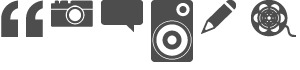
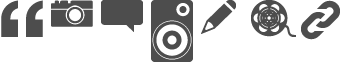
much tumblring, bug catching & stuff like that

diff --git a/assets/c/style.css b/assets/c/style.css
@@ -1,1 +1,1 @@
-/*! started with normalize.css 2012-03-11T12:53 UTC - http://github.com/necolas/normalize.css */article,aside,details,figcaption,figure,footer,header,hgroup,nav,section,summary{display:block}audio,canvas,video{display:inline-block;*display:inline;*zoom:1}audio:not([controls]){display:none;height:0}[hidden]{display:none}html{font-size:87.5%;-webkit-text-size-adjust:100%;-ms-text-size-adjust:100%;color:#4d4d4d;background:#eee url(http://static.tumblr.com/4g4xfxh/eICm65wjk/background.png)}html,button,input,select,textarea{font-family:'Helvetica Neue',Helvetica,Arial,sans-serif}body{margin:0;font-size:1em;line-height:1.4285714285714286}a:link,a:visited{color:#4d4d4d;background-color:transparent;text-decoration:underline}a:focus,a:hover,a:active{background-color:rgba(0,0,0,0.2);color:#4d4d4d;text-decoration:none;outline:thin dotted}a:hover,a:active{outline:0}h1,.h1{font-size:2em;margin:.67em 0}h2,.h2{font-size:1.5em;margin:.83em 0}h3,.h3{font-size:1.17em;margin:1em 0}h4,.h4{font-size:1em;margin:1.33em 0}h5,.h5{font-size:.83em;margin:1.67em 0}h6,.h6{font-size:.75em;margin:2.33em 0}abbr[title]{border-bottom:1px dotted}b,strong{font-weight:bold}blockquote{margin:1em 40px}dfn{font-style:italic}mark{background:#ff0;color:#000}p,pre{margin:1em 0}pre,code,kbd,samp{font-family:monospace,serif;_font-family:'courier new',monospace;font-size:1em}pre{white-space:pre;white-space:pre-wrap;word-wrap:break-word}q{quotes:none}q:before,q:after{content:'';content:none}small{font-size:75%}sub,sup{font-size:75%;line-height:0;position:relative;vertical-align:baseline}sup{top:-0.5em}sub{bottom:-0.25em}dl,menu,ol,ul{margin:1em 0}dd{margin:0 0 0 40px}menu,ol,ul{padding:0 0 0 40px}nav ul,nav ol{list-style:none;list-style-image:none}img{border:0;-ms-interpolation-mode:bicubic}svg:not(:root){overflow:hidden}figure{margin:0}form{margin:0}fieldset{border:1px solid #c0c0c0;margin:0 2px;padding:.35em .625em .75em}legend{border:0;padding:0;white-space:normal;*margin-left:-7px}button,input,select,textarea{font-size:100%;margin:0;vertical-align:baseline;*vertical-align:middle}button,input{line-height:normal}button,input[type="button"],input[type="reset"],input[type="submit"]{cursor:pointer;-webkit-appearance:button;*overflow:visible}button[disabled],input[disabled]{cursor:default}input[type="checkbox"],input[type="radio"]{box-sizing:border-box;padding:0;*height:13px;*width:13px}input[type="search"]{-webkit-appearance:textfield;-moz-box-sizing:content-box;-webkit-box-sizing:content-box;box-sizing:content-box}input[type="search"]::-webkit-search-decoration,input[type="search"]::-webkit-search-cancel-button{-webkit-appearance:none}button::-moz-focus-inner,input::-moz-focus-inner{border:0;padding:0}textarea{overflow:auto;vertical-align:top}table{border-collapse:collapse;border-spacing:0}body{margin:0 auto;width:940px}.head{padding-top:55px;padding-top:3.9286rem;border-bottom:1px solid #a6a5a5;padding-bottom:5px}.head-in{margin-top:55px;margin-top:3.9286rem;display:block;width:100%;border-top:1px solid #a6a5a5;border-bottom:1px solid #fff}.container{padding-top:44px;padding-bottom:44px;border-top:1px solid #fff}.content{float:left;width:587px;padding-right:49px;border-right:1px solid #a6a5a5}.sidebar{float:right;width:253px;padding-left:49px;border-left:1px solid #fff}.container{overflow:hidden}.content,.sidebar{padding-bottom:32760px;margin-bottom:-32760px}.theme-by{color:#bbb;font-size:13px;font-size:.9286rem;font-weight:bold;text-align:center;margin-top:30px;margin-top:2.1429rem;margin-bottom:30px;margin-bottom:2.1429rem}.theme-by>a:link,.theme-by>a:visited,.theme-by>a:focus{text-decoration:none}.theme-by>a:hover,.theme-by>a:active{text-decoration:underline}.singular .theme-by{border-top:1px solid #a6a5a5;padding-top:30px;padding-top:2.1429rem;position:relative}.singular .theme-by:before{border-bottom:1px dashed #fff;content:' ';display:block;position:absolute;top:0;left:0;right:0}.fork-left{float:left;padding-right:1em}.fork-right{float:right;padding-left:1em}.fork-center{text-align:center}.media{display:block}.media-img{float:left;margin-right:10px}.media-img.t-reverse{float:right;margin-left:10px}.media-img>img{display:block}.media-body{margin-bottom:0;overflow:hidden}.article{margin-bottom:88px}.entry-meta-head{float:left;width:47px;margin-right:30px;text-align:center}.entry-title,.entry-body,.entry-footer,.entry{margin-left:77px}.entry-title{margin-top:0}.article-text .entry-title,.article-chat .entry-title{margin-bottom:8px;margin-bottom:.5714rem}.article-text .entry-body>:first-child{margin-top:0}.entry-footer{color:#bdbbbb;text-shadow:0 1px 1px #f7f7f7;margin-top:30px;margin-top:2.1429rem;font-size:13px;font-size:.9286rem}.entry-footer a:link,.entry-footer a:visited{color:#bdbbbb;background-color:transparent;text-decoration:none;margin-right:20px}.entry-footer a:focus,.entry-footer a:hover,.entry-footer a:visited{color:#4d4d4d;background-color:transparent;text-decoration:none}.article-featurequote{font-size:20px;font-size:1.4286rem;margin-left:0;margin-right:0;padding-bottom:50px;background-image:url(http://static.tumblr.com/4g4xfxh/UJAm65whg/quote-background.png);background-repeat:no-repeat;background-position:50% 100%}.article-photo-feature>img{border:5px solid #fff;-webkit-box-shadow:0 1px 3px rgba(56,56,56,0.75);-moz-box-shadow:0 1px 3px rgba(56,56,56,0.75);box-shadow:0 1px 3px rgba(56,56,56,0.75)}.article-photo-caption{background-color:#ddd;margin-top:14px;margin-top:1rem;padding:15px;padding:1.0714rem}.article-photo-caption :first-child{margin-top:0}.article-photo-caption :last-child{margin-bottom:0}.article-video-player,.article-photoset-set{background-color:#fff;border:5px solid #fff;-webkit-box-shadow:0 1px 3px rgba(56,56,56,0.75);-moz-box-shadow:0 1px 3px rgba(56,56,56,0.75);box-shadow:0 1px 3px rgba(56,56,56,0.75)}.article-chat-transcript{list-style:none;padding-left:0;margin-top:0;margin-bottom:0}.article-chat-transcript>li{padding:1em}.article-chat-transcript>li:first-child{padding-top:0}.article-chat-transcript>.alt{background-color:#e0e0e0}.entry-notes{margin-top:35px;margin-top:2.5rem}.entry-notes ol{list-style:none;padding-left:0;border-top:1px dashed #a6a5a5;position:relative}.entry-notes ol:before{border-bottom:1px dashed #fff;content:' ';display:block;position:absolute;top:0;left:0;right:0}.entry-notes li{padding-top:1em;padding-bottom:1em;border-bottom:1px dashed #fff;position:relative}.entry-notes li:after{border-bottom:1px dashed #a6a5a5;content:' ';display:block;position:absolute;bottom:0;left:0;right:0}.entry-notes a{font-weight:bold}.adjacent{color:#bbb;font-size:17px;font-size:1.2143rem;font-weight:bold;text-shadow:0 1px 1px #f7f7f7;border-top:1px solid #a6a5a5;border-bottom:1px solid #fff}.adjacent>.in{border-bottom:1px solid #a6a5a5;border-top:1px solid #fff;padding-top:14px;padding-top:1rem;padding-bottom:14px;padding-bottom:1rem}.adjacent a:link,.adjacent a:visited{color:#bbb;background-color:transparent;text-decoration:none}.adjacent a:focus,.adjacent a:hover,.adjacent a:active{color:#4d4d4d}.adjacent-left:before{content:'< '}.adjacent-right:after{content:' >'}.brand{font-size:50px;font-size:3.5714rem;font-weight:bold;letter-spacing:-2.5px;line-height:1;text-shadow:0 1px 1px #f7f7f7;margin:0}.brand>a:link,.brand>a:visited{color:#4d4d4d;background-color:transparent;text-decoration:none}.brand>a:focus{background-color:#7e7e7e;color:#fff}.brand>a:hover,.brand>a:active{color:#7e7e7e;background-color:transparent;text-decoration:none}.ico,.ico-med{display:inline-block;overflow:hidden!important;width:38px!important;height:38px!important;background-image:url(http://static.tumblr.com/4g4xfxh/Ik1m65wl8/med.png);background-repeat:no-repeat;background-position:0 0;vertical-align:middle}.ico-me{background-position:0 0}a:hover .ico-me,a:focus .ico-me,a:active .ico-me{background-position:0 -40px}.ico-fb{background-position:-40px 0}a:hover .ico-fb,a:focus .ico-fb,a:active .ico-fb{background-position:-40px -40px}.ico-tw{background-position:-80px 0}a:hover .ico-tw,a:focus .ico-tw,a:active .ico-tw{background-position:-80px -40px}.ico-li{background-position:-120px 0}a:hover .ico-li,a:focus .ico-li,a:active .ico-li{background-position:-120px -40px}.ico-pi{background-position:-160px 0}a:hover .ico-pi,a:focus .ico-pi,a:active .ico-pi{background-position:-160px -40px}.ico-small{vertical-align:bottom;display:inline-block;overflow:hidden!important;height:17px!important;background-image:url(http://static.tumblr.com/4g4xfxh/qAim65wm6/small.png);background-repeat:no-repeat;background-position:0 0}.ico-comments{width:20px!important;background-position:0 0}a:hover .ico-comments,a:focus .ico-comments,a:active .ico-comments{background-position:0 -20px}.ico-likes{width:16px!important;background-position:-20px 0}a:hover .ico-likes,a:focus .ico-likes,a:active .ico-likes{background-position:-20px -20px}.ico-reblog{width:17px!important;background-position:-40px 0}a:hover .ico-reblog,a:focus .ico-reblog,a:active .ico-reblog{background-position:-40px -20px}.ico-source{width:26px!important;background-position:-60px 0}a:hover .ico-source,a:focus .ico-source,a:active .ico-source{background-position:-60px -20px}.ico-large{vertical-align:bottom;display:inline-block;overflow:hidden!important;background-image:url(http://static.tumblr.com/4g4xfxh/ooHm6799i/large.png);background-repeat:no-repeat;background-position:0 0}.ico-quote{width:44px!important;height:39px!important;background-position:0 0}.ico-photo{width:44px!important;height:29px!important;background-position:-50px 0}.ico-chat{width:44px!important;height:33px!important;background-position:-100px 0}.ico-audio{width:44px!important;height:64px!important;background-position:-150px 0}.ico-text{width:37px!important;height:36px!important;background-position:-200px 0}.ico-video{width:47px!important;height:39px!important;background-position:-250px 0}.ico-video{width:41px!important;height:42px!important;background-position:-300px 0}.menu{line-height:50px;line-height:3.5714rem}.menu a:hover,.menu a:focus,.menu a:active{background-color:transparent}.player{font-weight:bold;text-shadow:0 1px 1px #f7f7f7;padding:14px;padding:1rem;background-color:rgba(157,151,153,0.22);border:1px solid #a6a5a5;-webkit-border-radius:5px;-moz-border-radius:5px;border-radius:5px;-moz-background-clip:padding;-webkit-background-clip:padding-box;background-clip:padding-box;-webkit-box-shadow:inset 0 1px 1px #fff;-moz-box-shadow:inset 0 1px 1px #fff;box-shadow:inset 0 1px 1px #fff}.player-artist{margin-bottom:0}.player-track{margin-top:0}.player-album{font-weight:normal;font-style:italic}.search-title{margin-top:0;margin-bottom:30px;margin-bottom:2.1429rem}.time{font-weight:bold;text-transform:uppercase;line-height:1;display:block;border-top:1px solid #a6a5a5;margin-top:5px}.time-day,.time-month,.time-year{display:block}.time-day{border-top:1px solid #fff;font-size:29px;font-size:2.0714rem;text-shadow:0 1px 1px #f7f7f7}.time-month{border-bottom:1px solid #a6a5a5;font-size:17px;font-size:1.2143rem;text-shadow:0 1px 1px #f7f7f7;padding-bottom:8px;padding-bottom:.5714rem}.time-year{color:#bdbbbb;border-top:1px solid #fff;font-size:15px;font-size:1.0714rem;padding-top:3px;padding-top:.2143rem}.widget-search{font-weight:bold;text-shadow:0 1px 1px #f7f7f7;padding:7px;padding:.5rem;background-color:rgba(157,151,153,0.22);border:1px solid #a6a5a5;-webkit-border-radius:5px;-moz-border-radius:5px;border-radius:5px;-moz-background-clip:padding;-webkit-background-clip:padding-box;background-clip:padding-box;-webkit-box-shadow:inset 0 1px 1px #fff;-moz-box-shadow:inset 0 1px 1px #fff;box-shadow:inset 0 1px 1px #fff}.widget-search .text{width:190px;min-height:25px;line-height:25px;border:0;-webkit-box-shadow:none;-moz-box-shadow:none;box-shadow:none;background-color:transparent}.widget-search .submit{vertical-align:bottom}.widget-title{margin-top:40px;margin-top:2.8571rem;padding-bottom:11px;padding-bottom:.7857rem;font-size:18px;font-size:1.2857rem;border-bottom:2px groove #eee}.widget-list{font-size:14px;font-size:1rem;list-style:none;padding-left:0}.widget-list>li{background-image:url(http://static.tumblr.com/4g4xfxh/cIjm65won/li-background.png);background-repeat:no-repeat;background-position:0 5px;padding-left:35px;margin-bottom:20px;margin-bottom:1.4286rem}.widget-time{font-size:11px;font-size:.7857rem;display:block}.widget-pi li{padding-left:0;background-image:none;float:left}.widget-pi li.even{float:right}.widget-pi li.odd{clear:both}.widget-pi li p{display:none;margin-top:0;margin-bottom:0}.widget-pi li p:first-child{display:block}.widget-pi li p img{width:100px;border:5px solid #fff;-webkit-box-shadow:0 1px 3px rgba(56,56,56,0.75);-moz-box-shadow:0 1px 3px rgba(56,56,56,0.75);box-shadow:0 1px 3px rgba(56,56,56,0.75)}.widget-pi li a{background-color:transparent}.cf,.clearfix,body,.head,.container,.hentry,.foot,.fork,.media,.player,.adjacent>.in{zoom:1}.cf:after,.clearfix:after,body:after,.head:after,.container:after,.hentry:after,.foot:after,.fork:after,.media:after,.player:after,.adjacent>.in:after{display:block;visibility:hidden;font-size:0;height:0;clear:both;content:"."}.alignleft{float:left}.alignright{float:left}.accessibility{position:absolute!important;height:1px!important;width:1px!important;overflow:hidden!important;clip:rect(1px 1px 1px 1px)!important;clip:rect(1px,1px,1px,1px)!important}
+/*! started with normalize.css 2012-03-11T12:53 UTC - http://github.com/necolas/normalize.css */article,aside,details,figcaption,figure,footer,header,hgroup,nav,section,summary{display:block}audio,canvas,video{display:inline-block;*display:inline;*zoom:1}audio:not([controls]){display:none;height:0}[hidden]{display:none}html{font-size:87.5%;-webkit-text-size-adjust:100%;-ms-text-size-adjust:100%;color:#4d4d4d;background:#eee url(http://static.tumblr.com/4g4xfxh/eICm65wjk/background.png)}html,button,input,select,textarea{font-family:'Helvetica Neue',Helvetica,Arial,sans-serif}body{margin:0;font-size:1em;line-height:1.4285714285714286}a:link,a:visited{color:#4d4d4d;background-color:transparent;text-decoration:underline}a:focus,a:hover,a:active{background-color:rgba(0,0,0,0.2);color:#4d4d4d;text-decoration:none;outline:thin dotted}a:hover,a:active{outline:0}h1,.h1{font-size:2em;margin:.67em 0}h2,.h2{font-size:1.5em;margin:.83em 0}h3,.h3{font-size:1.17em;margin:1em 0}h4,.h4{font-size:1em;margin:1.33em 0}h5,.h5{font-size:.83em;margin:1.67em 0}h6,.h6{font-size:.75em;margin:2.33em 0}abbr[title]{border-bottom:1px dotted}b,strong{font-weight:bold}blockquote{margin:1em 40px}dfn{font-style:italic}mark{background:#ff0;color:#000}p,pre{margin:1em 0}pre,code,kbd,samp{font-family:monospace,serif;_font-family:'courier new',monospace;font-size:1em}pre{white-space:pre;white-space:pre-wrap;word-wrap:break-word}q{quotes:none}q:before,q:after{content:'';content:none}small{font-size:75%}sub,sup{font-size:75%;line-height:0;position:relative;vertical-align:baseline}sup{top:-0.5em}sub{bottom:-0.25em}dl,menu,ol,ul{margin:1em 0}dd{margin:0 0 0 40px}menu,ol,ul{padding:0 0 0 40px}nav ul,nav ol{list-style:none;list-style-image:none}img{border:0;-ms-interpolation-mode:bicubic}svg:not(:root){overflow:hidden}figure{margin:0}form{margin:0}fieldset{border:1px solid #c0c0c0;margin:0 2px;padding:.35em .625em .75em}legend{border:0;padding:0;white-space:normal;*margin-left:-7px}button,input,select,textarea{font-size:100%;margin:0;vertical-align:baseline;*vertical-align:middle}button,input{line-height:normal}button,input[type="button"],input[type="reset"],input[type="submit"]{cursor:pointer;-webkit-appearance:button;*overflow:visible}button[disabled],input[disabled]{cursor:default}input[type="checkbox"],input[type="radio"]{box-sizing:border-box;padding:0;*height:13px;*width:13px}input[type="search"]{-webkit-appearance:textfield;-moz-box-sizing:content-box;-webkit-box-sizing:content-box;box-sizing:content-box}input[type="search"]::-webkit-search-decoration,input[type="search"]::-webkit-search-cancel-button{-webkit-appearance:none}button::-moz-focus-inner,input::-moz-focus-inner{border:0;padding:0}textarea{overflow:auto;vertical-align:top}table{border-collapse:collapse;border-spacing:0}body{margin:0 auto;width:940px}.head{padding-top:55px;padding-top:3.9286rem;border-bottom:1px solid #a6a5a5;padding-bottom:5px}.head-in{margin-top:55px;margin-top:3.9286rem;display:block;width:100%;border-top:1px solid #a6a5a5;border-bottom:1px solid #fff}.container{padding-top:44px;padding-bottom:44px;border-top:1px solid #fff}.content{float:left;width:587px;padding-right:49px;border-right:1px solid #a6a5a5}.sidebar{float:right;width:253px;padding-left:49px;border-left:1px solid #fff}.container{overflow:hidden}.content,.sidebar{padding-bottom:32760px;margin-bottom:-32760px}.theme-by{color:#bbb;font-size:13px;font-size:.9286rem;font-weight:bold;text-align:center;margin-top:30px;margin-top:2.1429rem;margin-bottom:30px;margin-bottom:2.1429rem}.theme-by>a:link,.theme-by>a:visited,.theme-by>a:focus{text-decoration:none}.theme-by>a:hover,.theme-by>a:active{text-decoration:underline}.singular .theme-by{border-top:1px solid #a6a5a5;padding-top:30px;padding-top:2.1429rem;position:relative}.singular .theme-by:before{border-bottom:1px dashed #fff;content:' ';display:block;position:absolute;top:0;left:0;right:0}.fork-left{float:left;padding-right:1em}.fork-right{float:right;padding-left:1em}.fork-center{text-align:center}.media{display:block}.media-img{float:left;margin-right:10px}.media-img.t-reverse{float:right;margin-left:10px}.media-img>img{display:block}.media-body{margin-bottom:0;overflow:hidden}.article{margin-bottom:88px}.entry-meta-head{float:left;width:47px;margin-right:30px;text-align:center}.entry-meta-head>a:link,.entry-meta-head>a:visited,.entry-meta-head>a:focus,.entry-meta-head>a:hover,.entry-meta-head>a:active{background-color:transparent;text-decoration:none}.entry-title,.entry-body,.entry-footer,.entry{margin-left:77px}.entry-title{margin-top:0}.article-text .entry-title,.article-chat .entry-title{margin-bottom:8px;margin-bottom:.5714rem}.article-text .entry-body>:first-child{margin-top:0}.entry-footer{color:#bdbbbb;text-shadow:0 1px 1px #f7f7f7;margin-top:30px;margin-top:2.1429rem;font-size:13px;font-size:.9286rem}.entry-footer a:link,.entry-footer a:visited{color:#bdbbbb;background-color:transparent;text-decoration:none;margin-right:20px}.entry-footer a:focus,.entry-footer a:hover,.entry-footer a:active{color:#4d4d4d;background-color:transparent;text-decoration:none}.article-featurequote{font-size:20px;font-size:1.4286rem;margin-left:0;margin-right:0;padding-bottom:50px;background-image:url(http://static.tumblr.com/4g4xfxh/UJAm65whg/quote-background.png);background-repeat:no-repeat;background-position:50% 100%}.article-photo-feature>img{border:5px solid #fff;-webkit-box-shadow:0 1px 3px rgba(56,56,56,0.75);-moz-box-shadow:0 1px 3px rgba(56,56,56,0.75);box-shadow:0 1px 3px rgba(56,56,56,0.75)}.article-photo-caption{background-color:#ddd;margin-top:14px;margin-top:1rem;padding:15px;padding:1.0714rem}.article-photo-caption :first-child{margin-top:0}.article-photo-caption :last-child{margin-bottom:0}.article-video-player,.article-photoset-set{background-color:#fff;border:5px solid #fff;-webkit-box-shadow:0 1px 3px rgba(56,56,56,0.75);-moz-box-shadow:0 1px 3px rgba(56,56,56,0.75);box-shadow:0 1px 3px rgba(56,56,56,0.75)}.article-chat-transcript{list-style:none;padding-left:0;margin-top:0;margin-bottom:0}.article-chat-transcript>li{padding:1em}.article-chat-transcript>li:first-child{padding-top:0}.article-chat-transcript>.even{background-color:#e0e0e0}.article-link-link{margin-top:0}.article-link-link>a,.article-link-link>a:visited{color:#4d4d4d;background-color:#e0e0e0;text-decoration:none;text-shadow:0 1px 1px #f7f7f7;display:block;padding:1em}.article-link-link>a:focus{background-color:#4d4d4d;color:#e0e0e0;text-decoration:none}.article-link-link>a:hover,.article-link-link>a:active{color:#4d4d4d;background-color:#e0e0e0;text-decoration:underline}.entry-notes{margin-top:35px;margin-top:2.5rem}.entry-notes ol{list-style:none;padding-left:0;border-top:1px dashed #a6a5a5;position:relative}.entry-notes ol:before{border-bottom:1px dashed #fff;content:' ';display:block;position:absolute;top:0;left:0;right:0}.entry-notes li{padding-top:1em;padding-bottom:1em;border-bottom:1px dashed #fff;position:relative}.entry-notes li:after{border-bottom:1px dashed #a6a5a5;content:' ';display:block;position:absolute;bottom:0;left:0;right:0}.entry-notes a{font-weight:bold}.adjacent{color:#bbb;font-size:17px;font-size:1.2143rem;font-weight:bold;text-shadow:0 1px 1px #f7f7f7;border-top:1px solid #a6a5a5;border-bottom:1px solid #fff}.list .adjacent{margin-top:40px;margin-top:2.8571rem}.adjacent>.in{border-bottom:1px solid #a6a5a5;border-top:1px solid #fff;padding-top:14px;padding-top:1rem;padding-bottom:14px;padding-bottom:1rem}.adjacent a:link,.adjacent a:visited{color:#bbb;background-color:transparent;text-decoration:none}.adjacent a:focus,.adjacent a:hover,.adjacent a:active{color:#4d4d4d}.adjacent-left:before{content:'< '}.adjacent-right:after{content:' >'}.brand{font-size:50px;font-size:3.5714rem;font-weight:bold;letter-spacing:-2.5px;line-height:1;text-shadow:0 1px 1px #f7f7f7;margin:0}.brand>a:link,.brand>a:visited{color:#4d4d4d;background-color:transparent;text-decoration:none}.brand>a:focus{background-color:#7e7e7e;color:#fff}.brand>a:hover,.brand>a:active{color:#7e7e7e;background-color:transparent;text-decoration:none}.ico,.ico-med{display:inline-block;overflow:hidden!important;width:38px!important;height:38px!important;background-image:url(http://static.tumblr.com/4g4xfxh/Ik1m65wl8/med.png);background-repeat:no-repeat;background-position:0 0;vertical-align:middle}.ico-me{background-position:0 0}a:hover .ico-me,a:focus .ico-me,a:active .ico-me{background-position:0 -40px}.ico-fb{background-position:-40px 0}a:hover .ico-fb,a:focus .ico-fb,a:active .ico-fb{background-position:-40px -40px}.ico-tw{background-position:-80px 0}a:hover .ico-tw,a:focus .ico-tw,a:active .ico-tw{background-position:-80px -40px}.ico-li{background-position:-120px 0}a:hover .ico-li,a:focus .ico-li,a:active .ico-li{background-position:-120px -40px}.ico-pi{background-position:-160px 0}a:hover .ico-pi,a:focus .ico-pi,a:active .ico-pi{background-position:-160px -40px}.ico-small{vertical-align:bottom;display:inline-block;overflow:hidden!important;height:17px!important;background-image:url(http://static.tumblr.com/4g4xfxh/qAim65wm6/small.png);background-repeat:no-repeat;background-position:0 0}.ico-comments{width:20px!important;background-position:0 0}a:hover .ico-comments,a:focus .ico-comments,a:active .ico-comments{background-position:0 -20px}.ico-likes{width:16px!important;background-position:-20px 0}a:hover .ico-likes,a:focus .ico-likes,a:active .ico-likes{background-position:-20px -20px}.ico-reblog{width:17px!important;background-position:-40px 0}a:hover .ico-reblog,a:focus .ico-reblog,a:active .ico-reblog{background-position:-40px -20px}.ico-source{width:26px!important;background-position:-60px 0}a:hover .ico-source,a:focus .ico-source,a:active .ico-source{background-position:-60px -20px}.ico-large{vertical-align:bottom;display:inline-block;overflow:hidden!important;background-image:url(http://static.tumblr.com/4g4xfxh/VU7m679kh/large.png);background-repeat:no-repeat;background-position:0 0}.ico-quote{width:44px!important;height:39px!important;background-position:0 0}.ico-photo{width:44px!important;height:29px!important;background-position:-50px 0}.ico-chat{width:44px!important;height:33px!important;background-position:-100px 0}.ico-audio{width:44px!important;height:64px!important;background-position:-150px 0}.ico-text{width:37px!important;height:36px!important;background-position:-200px 0}.ico-video{width:47px!important;height:39px!important;background-position:-250px 0}.ico-link{width:41px!important;height:42px!important;background-position:-300px 0}.menu{line-height:50px;line-height:3.5714rem}.menu a:hover,.menu a:focus,.menu a:active{background-color:transparent}.player{font-weight:bold;text-shadow:0 1px 1px #f7f7f7;padding:14px;padding:1rem;background-color:rgba(157,151,153,0.22);border:1px solid #a6a5a5;-webkit-border-radius:5px;-moz-border-radius:5px;border-radius:5px;-moz-background-clip:padding;-webkit-background-clip:padding-box;background-clip:padding-box;-webkit-box-shadow:inset 0 1px 1px #fff;-moz-box-shadow:inset 0 1px 1px #fff;box-shadow:inset 0 1px 1px #fff}.player-artist{margin-bottom:0}.player-track{margin-top:0}.player-album{font-weight:normal;font-style:italic}.search-title{margin-top:0;margin-bottom:30px;margin-bottom:2.1429rem}.time{font-weight:bold;text-transform:uppercase;line-height:1;display:block;border-top:1px solid #a6a5a5;margin-top:5px}.time-day,.time-month,.time-year{display:block}.time-day{border-top:1px solid #fff;font-size:29px;font-size:2.0714rem;text-shadow:0 1px 1px #f7f7f7}.time-month{border-bottom:1px solid #a6a5a5;font-size:17px;font-size:1.2143rem;text-shadow:0 1px 1px #f7f7f7;padding-bottom:8px;padding-bottom:.5714rem}.time-year{color:#bdbbbb;border-top:1px solid #fff;font-size:15px;font-size:1.0714rem;padding-top:3px;padding-top:.2143rem}.widget-search{font-weight:bold;text-shadow:0 1px 1px #f7f7f7;padding:7px;padding:.5rem;background-color:rgba(157,151,153,0.22);border:1px solid #a6a5a5;-webkit-border-radius:5px;-moz-border-radius:5px;border-radius:5px;-moz-background-clip:padding;-webkit-background-clip:padding-box;background-clip:padding-box;-webkit-box-shadow:inset 0 1px 1px #fff;-moz-box-shadow:inset 0 1px 1px #fff;box-shadow:inset 0 1px 1px #fff}.widget-search .text{width:190px;min-height:25px;line-height:25px;border:0;-webkit-box-shadow:none;-moz-box-shadow:none;box-shadow:none;background-color:transparent}.widget-search .submit{vertical-align:bottom}.widget-title{margin-top:40px;margin-top:2.8571rem;padding-bottom:11px;padding-bottom:.7857rem;font-size:18px;font-size:1.2857rem;border-bottom:2px groove #eee}.widget-list{font-size:14px;font-size:1rem;list-style:none;padding-left:0}.widget-list>li{background-image:url(http://static.tumblr.com/4g4xfxh/cIjm65won/li-background.png);background-repeat:no-repeat;background-position:0 5px;padding-left:35px;margin-bottom:20px;margin-bottom:1.4286rem}.widget-time{font-size:11px;font-size:.7857rem;display:block}.widget-pi li{padding-left:0;background-image:none;float:left}.widget-pi li.even{float:right}.widget-pi li.odd{clear:both}.widget-pi li p{display:none;margin-top:0;margin-bottom:0}.widget-pi li p:first-child{display:block}.widget-pi li p img{width:100px;border:5px solid #fff;-webkit-box-shadow:0 1px 3px rgba(56,56,56,0.75);-moz-box-shadow:0 1px 3px rgba(56,56,56,0.75);box-shadow:0 1px 3px rgba(56,56,56,0.75)}.widget-pi li a{background-color:transparent}.cf,.clearfix,body,.head,.container,.hentry,.foot,.fork,.media,.player,.adjacent>.in{zoom:1}.cf:after,.clearfix:after,body:after,.head:after,.container:after,.hentry:after,.foot:after,.fork:after,.media:after,.player:after,.adjacent>.in:after{display:block;visibility:hidden;font-size:0;height:0;clear:both;content:"."}.alignleft{float:left}.alignright{float:left}.accessibility{position:absolute!important;height:1px!important;width:1px!important;overflow:hidden!important;clip:rect(1px 1px 1px 1px)!important;clip:rect(1px,1px,1px,1px)!important}

diff --git a/for-tumblr.html b/for-tumblr.html
@@ -4,7 +4,8 @@
 	<meta charset=UTF-8>
 	<script>(function(H){H.className=H.className.replace(/\bno-js\b/,'js')})(document.documentElement)</script>
 	<title>{block:SearchPage}{lang:Search results for SearchQuery} - {/block:SearchPage}{block:PostTitle}{PostTitle} - {/block:PostTitle}{Title}</title>
-	<link rel="stylesheet" href="http://static.tumblr.com/4g4xfxh/DGZm65wvj/style.css">
+	<!-- <link rel="stylesheet" href="http://static.tumblr.com/4g4xfxh/MPKm679l8/style.css"> -->
+	<link rel="stylesheet" href="http://floate.static.int.pwcc.cc/miedinger/assets/c/style.css?v=002">
 	<!--[if (gte IE 6)&(lte IE 8)]><script src="http://static.tumblr.com/4g4xfxh/nYhm65wy6/shiv.js"></script><![endif]-->
 
 
@@ -22,12 +23,7 @@
 {block:IndexPage}
 	<body class="list">
 {/block:IndexPage}
-{block:TagPage}
-	<body class="list">
-{/block:TagPage}
-{block:SearchPage}
-	<body class="list search">
-{/block:SearchPage}
+
 	
 
 <header class="header head">
@@ -39,12 +35,6 @@
 		{block:IndexPage}
 			<h1 class="brand fork-left"><a href="/">{Title}</a></h1>
 		{/block:IndexPage}
-		{block:TagPage}
-			<p class="brand fork-left"><a href="/">{Title}</a></p>
-		{/block:TagPage}
-		{block:SearchPage}
-			<p class="brand fork-left"><a href="/">{Title}</a></p>
-		{/block:SearchPage}
 	
 		<nav class="nav menu fork-right">
 			{block:IfAboutMeURL}<a href="{text:About Me URL}"><i class="ico ico-me"></i></a>{/block:IfAboutMeURL}
@@ -73,51 +63,206 @@
 		<article class="hentry article article-{PostType}">
 			<header class="entry-header">
 				<div class="entry-meta entry-meta-head">
+					<a href="{Permalink}">
 					<i class="ico-large ico-{PostType}"></i>
 					<time itemprop="publishDate" datetime="{Year}-{MonthNumberWithZero}-{DayOfMonthWithZero}T{24HourWithZero}:{Minutes}:{Seconds}+00:00" pubdate class="entry-date time">
 						<span class="time-day">{DayOfMonth}</span>
 						<span class="time-month">{ShortMonth}</span>
 						<span class="time-year">{Year}</span>
 					</time>
+					</a>
 				</div>
 				
 				{block:Title}<h2 class="entry-title"> {Title} </h2>{/block:Title}
 			</header>
 			
 			<div class="entry-body">
+				{block:Quote}
+				<blockquote class="article-featurequote">
+					{Quote}
+				</blockquote>
+				{block:Source}<div>{Source}</div>{/block:Source}
+				{/block:Quote}
 				
-				<blockquote class="article-featurequote">You can say, “I love you” in Helvetica. And you can say it with Helvetica Extra Light if you want to be really fancy. Or you can say it with the Extra Bold if it's really intensive and passionate, you know, and it might work.</blockquote>
-				<div><p>Massimo Vignelli</p></div>
+				{block:Photo}
+				<div class="article-photo-feature"><img src="{PhotoURL-500}" width="500" alt="Photo"></div>
+				{block:Caption}
+				<div class="article-photo-caption">{Caption}</div>
+				{/block:Caption}
+				{/block:Photo}
 				
+				{block:Photoset}
+				<div class="article-photoset-set">{Photoset-500}</div>
+				{block:Caption}
+				<div class="article-photo-caption">{Caption}</div>
+				{/block:Caption}
+				{/block:Photoset}
 				
+				{block:Chat}
+				<ol class="article-chat-transcript">
+					{block:Lines}
+					<li class="{Alt}">
+						{block:Label}<strong>{Label} </strong>{/block:Label}
+						{Line}
+					</li>
+					{/block:Lines}
+				</ol>
+				{/block:Chat}
+				
+				{block:Audio}
+				<div class="player media">
+					<div class="media-img">
+						{block:AlbumArt}
+						<img src="{AlbumArtURL}" width="141" class="player-img">
+						{/block:AlbumArt}
+					</div>
+					<div class="media-body">
+						<div class="player-audio">
+							{AudioPlayer}
+						</div>
+						{block:Artist}
+						<p class="player-artist">{Artist}</p>
+						{/block:Artist}
+						{block:TrackName}
+						<p class="player-track">{TrackName}</p>
+						{/block:TrackName}
+						{block:Album}
+						<p class="player-album">{Album}</p>
+						{/block:Album}
+					</div>
+				</div>
+				{block:Caption}<div>{Caption}</div>{/block:Caption}
+				{/block:Audio}
+				
+				{block:Text}
+					{Body}
+				{/block:Text}
+				
+				{block:Link}
+					<p class="article-link-link"><a href="{URL}" {Target}>{Name}</a></p>
+					{block:Description}
+					{Description}
+					{/block:Description}
+				{/block:Link}
+				
+				{block:Video}
+				<div class="article-video-player">{Video-500}</div>
+				
+				{block:Caption}{Caption}{/block:Caption}
+				{/block:Video}
 			</div>
 			
 			<footer class="entry-meta entry-footer">
-				{block:NoteCount}
-					<a href="#"><i class="ico-small ico-comments"></i> {NoteCount} <span class="accessibility">notes</span></a>
-				{/block:NoteCount}
+					<a href="{Permalink}#notes"><i class="ico-small ico-comments"></i> {NoteCount} <span class="accessibility">notes</span></a>
 				{block:HasTags}{block:Tags}
 					<a href="{TagURL}">#{Tag}</a>
 				{/block:Tags}{/block:HasTags}
 				{block:RebloggedFrom}
 					<a href="{ReblogParentURL}"><i class="ico-small ico-reblog"></i> This is a reblog</a>
 				{/block:RebloggedFrom}
+				{block:ContentSource}
+				<a href="{SourceURL}"><i class="ico-small ico-source"></i> Source</a>
+				{/block:ContentSource}
 			</footer>
 		</article>
 		{/block:Posts}
 
 
+		{block:PermalinkPage}
+
+		{block:PermalinkPagination}<div class="adjacent fork"><div class="in">
+			<div class="fork-left">
+				{block:PreviousPost}
+				<a href="{PreviousPost}" class="adjacent-left">Previous post</a>
+				{/block:PreviousPost}
+			</div>
+			
+			<div class="fork-right">
+				{block:NextPost}
+				<a href="{NextPost}" class="adjacent-right">Next post</a>
+				{/block:NextPost}
+			</div>
+			
+		</div></div>{/block:PermalinkPagination}
+		
+		
+		<div id="notes" class="entry-notes">
+			{block:PostNotes} 
+			<h2 class="h4">Notes</h2>
+			{PostNotes}
+			{/block:PostNotes}
+		</div>
+		{/block:PermalinkPage}
+	</div>
+	
+	<div class="sidebar">
+		<form action="/search" method="get" class="widget widget-search">
+			<div class="set set-text">
+				<label for="search-sidebar" class="accessibility">Search</label>
+			    <input type="text" name="q" id="search-sidebar" value="{SearchQuery}" class="text" />
+				<input type="image" src="http://static.tumblr.com/4g4xfxh/4Wbm65wn1/submit.png" class="submit" />
+			</div>
+		</form>
+		
+		<div id="wgttw" class="widget widget-tw">
+		</div>
+		
+		<div id="wgtpi" class="widget widget-pi">
+		</div>
+
+	</div>
+</div>
+<!-- //.container -->
+
+
+{block:IndexPage}{block:Pagination}
+<div class="adjacent fork"><div class="in">
+	<div class="fork-left">{block:PreviousPage}<a href="{PreviousPage}" class="adjacent-left">Previous page</a>{/block:PreviousPage}</div>
+	<div class="fork-right">{block:NextPage}<a href="{NextPage}" class="adjacent-right">Next page</a>{/block:NextPage}</div>
+	<div class="fork-center">Page {CurrentPage} of {TotalPages}</div>
+</div></div>
+{/block:Pagination}{/block:IndexPage}
+
+
+<footer class="footer foot">
+	<p class="theme-by">Theme by <a href="http://floate.com.au">Floate</a></p>
+</footer>
 
 
 
-
-
+{block:IfPinterestUsername}
+<script>
+var pinterestUsername = "{text:Pinterest Username}";
+</script>
+{/block:IfPinterestUsername}
+{block:Twitter}<script>var twitterUsername = "{TwitterUsername}";</script>{/block:Twitter}
 
 
 	
 	<script src="https://ajax.googleapis.com/ajax/libs/jquery/1.7.1/jquery.min.js" type="text/javascript"></script>
-	<script src="http://static.tumblr.com/4g4xfxh/Uiim65wym/site.js" type="text/javascript"></script>
+
+
+	<!-- <script src="http://static.tumblr.com/4g4xfxh/Uiim65wym/site.js" type="text/javascript"></script> -->
+	<script src="http://floate.static.int.pwcc.cc/miedinger/assets/j/site.js?v=002" type="text/javascript"></script>
 	{block:Twitter}<script type="text/javascript" src="/tweets.js"></script>{/block:Twitter}
+
+
+	{block:IfGoogleAnalyticsUA}
+	<!-- GOOGLE ANALYTICS TRACKER CODE -->
+	<script type="text/javascript">
+
+	  var _gaq = _gaq || [];
+	  _gaq.push(['_setAccount', '{text:Google Analytics UA}']);
+	  _gaq.push(['_trackPageview']);
+
+	  (function() {
+	    var ga = document.createElement('script'); ga.type = 'text/javascript'; ga.async = true;
+	    ga.src = ('https:' == document.location.protocol ? 'https://ssl' : 'http://www') + '.google-analytics.com/ga.js';
+	    var s = document.getElementsByTagName('script')[0]; s.parentNode.insertBefore(ga, s);
+	  })();
+
+	</script>
+	{/block:IfGoogleAnalyticsUA}
 
 </body>
 </html>

diff --git a/assets/c/style.less b/assets/c/style.less
@@ -681,6 +681,11 @@ body {
 	text-align: center;
 }
 
+.entry-meta-head > a:link,.entry-meta-head > a:visited,.entry-meta-head > a:focus,.entry-meta-head > a:hover,.entry-meta-head > a:active {
+	background-color: transparent;
+	text-decoration: none;
+}
+
 .entry-title, .entry-body, .entry-footer, .entry {
 	margin-left: 30+47px;
 }
@@ -711,7 +716,7 @@ body {
 		margin-right: 20px;
 	}
 	
-	a:focus, a:hover, a:visited {
+	a:focus, a:hover, a:active {
 		color: #4d4d4d;
 		background-color: transparent;
 		text-decoration: none;
@@ -770,9 +775,35 @@ body {
 	padding-top: 0;
 }
 
-.article-chat-transcript > .alt {
+.article-chat-transcript > .even {
 	background-color: #e0e0e0;
 }
+
+.article-link-link {
+	margin-top: 0;
+}
+.article-link-link > a,.article-link-link > a:visited {
+	color: #4D4D4D;
+	background-color: #e0e0e0;
+	text-decoration: none;
+	text-shadow: 0 1px 1px #f7f7f7;
+
+	display: block;
+	padding: 1em;
+}
+
+.article-link-link > a:focus {
+	background-color: #4D4D4D;
+	color: #e0e0e0;
+	text-decoration: none;
+}
+
+.article-link-link > a:hover,.article-link-link > a:active {
+	color: #4D4D4D;
+	background-color: #e0e0e0;
+	text-decoration: underline;
+}
+
 
 .entry-notes {
 	#rems > .margin-top(35);
@@ -823,6 +854,10 @@ body {
 	
 	border-top: 1px solid #a6a5a5;
 	border-bottom: 1px solid #fff;
+}
+
+.list .adjacent {
+	#rems > .margin-top(40);
 }
 
 .adjacent > .in {
@@ -994,7 +1029,7 @@ body {
 /*	width: 38px !important;*/
 /*	height: 17px !important;*/
 /*	background-image: url(../i/ico/large.png);*/
-	background-image: url(http://static.tumblr.com/4g4xfxh/ooHm6799i/large.png);
+	background-image: url(http://static.tumblr.com/4g4xfxh/VU7m679kh/large.png);
 	background-repeat: no-repeat;
 	background-position: 0 0;
 }
@@ -1035,7 +1070,7 @@ body {
 	background-position: -250px 0;
 }
 
-.ico-video {
+.ico-link {
 	width: 41px !important;
 	height: 42px !important;
 	background-position: -300px 0;

diff --git a/assets/j/site.js b/assets/j/site.js
@@ -41,7 +41,7 @@ function recent_tweets(data) {
 		out = out + '<li>';
 		out = out + data[i].text;
 		out = out + '  <span class="widget-time">';
-		out = out + '<a href=\"http://twitter.com/{TwitterUsername}/status/';
+		out = out + '<a href=\"http://twitter.com/' + twitterUsername + '/status/';
 		out = out + (data[i].id_str ? data[i].id_str : data[i].id) + '\">';
 		out = out + relative_time(data[i].created_at);
 		out = out + '</a>';
@@ -192,11 +192,13 @@ function recent_tweets(data) {
 
 
 $(document).ready(function () {
-	$('#wgtpi').rssfeed('http://www.pinterest.com/mattinnes/feed.rss', {
-		limit: 6,
-		snippet: false,
-		header: false,
-		date: false
-	});
+	if (typeof pinterestUsername == "string") {
+		$('#wgtpi').rssfeed('http://www.pinterest.com/' + pinterestUsername + '/feed.rss', {
+			limit: 6,
+			snippet: false,
+			header: false,
+			date: false
+		});
+	}
 
 });
